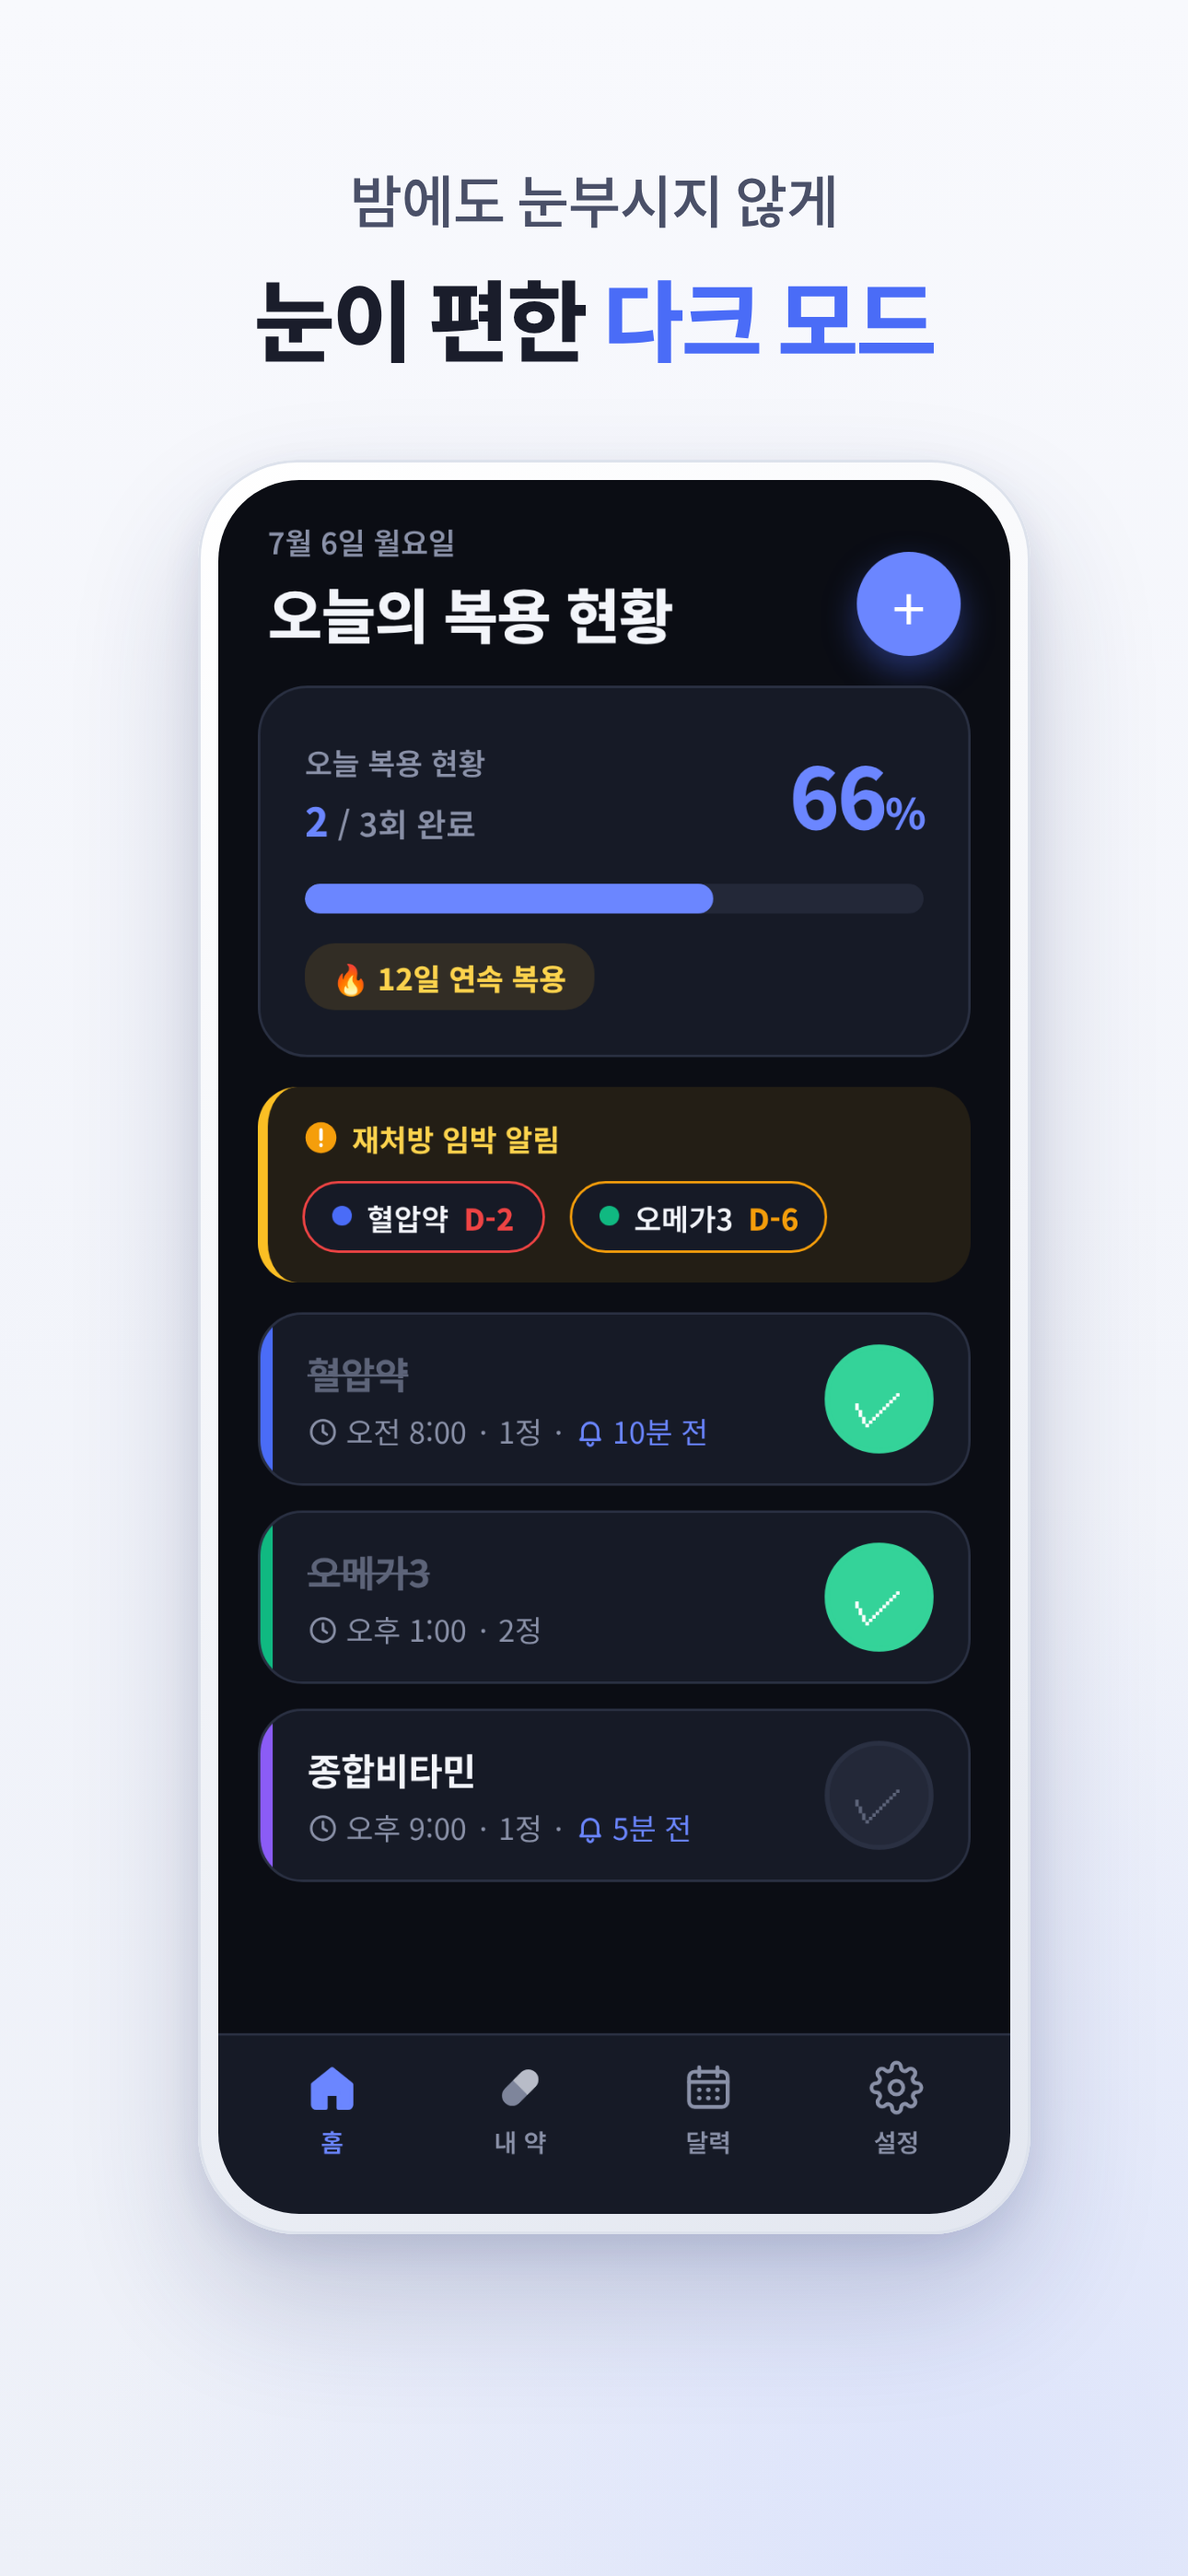
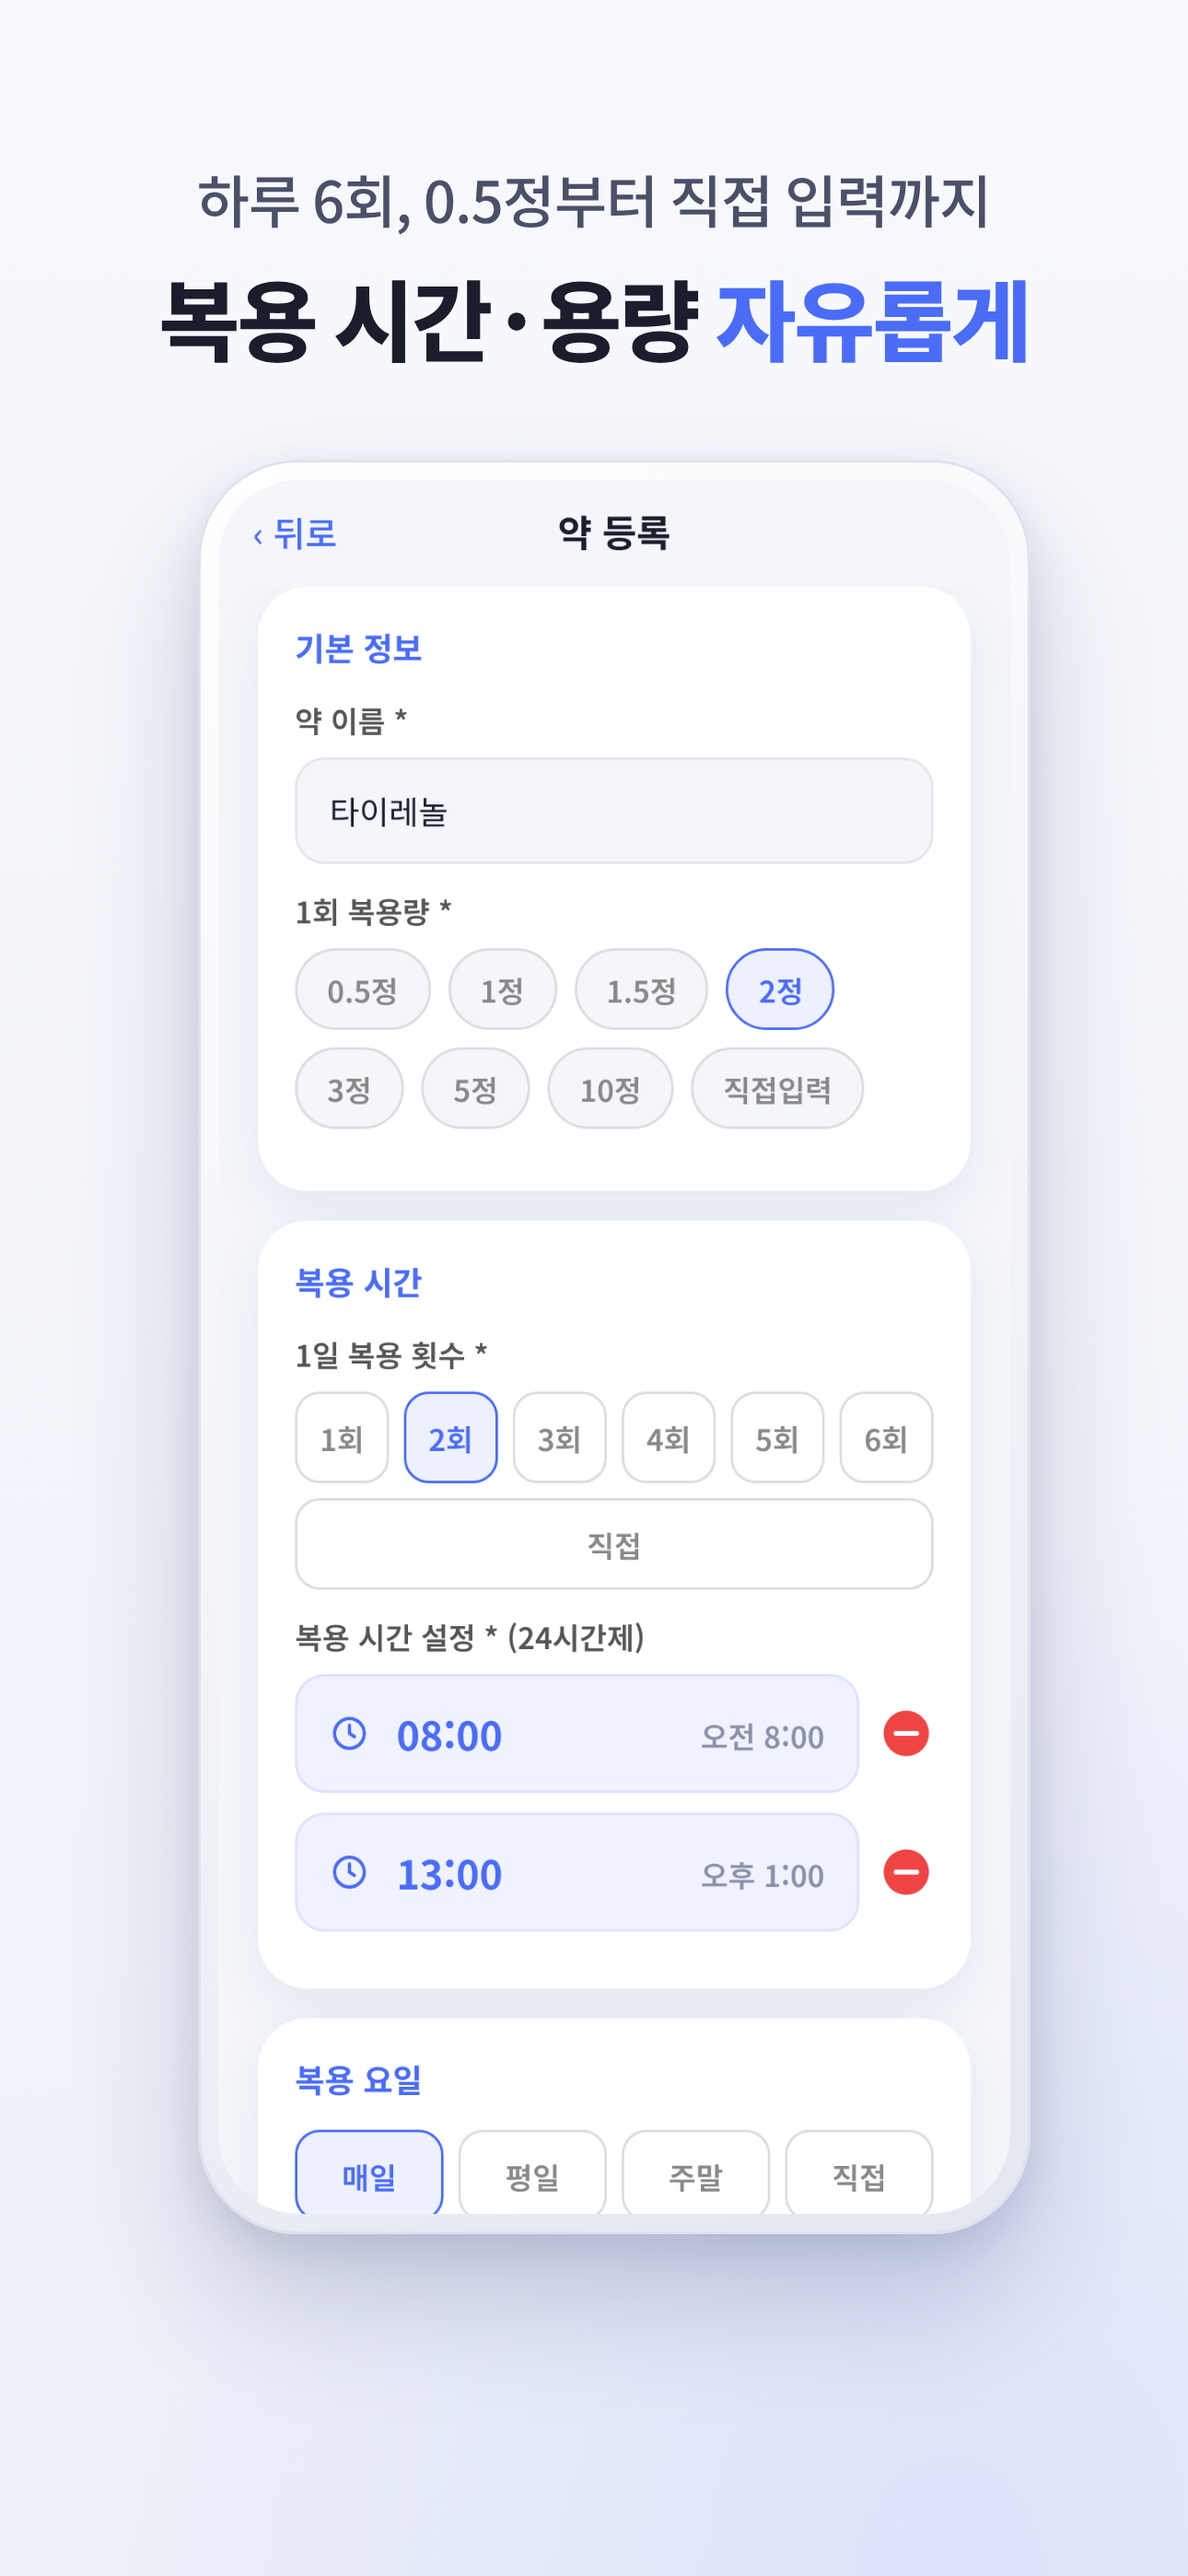
Korean store screenshots: add a large-text panel, refresh all eight
A new 'text size as large as you like' panel shows the home screen at a
bigger size with the slider on top, after the family alerts panel. All
panels reflect the current app: family card with menu and two-week chart,
medicine-colored calendar, app line icons, and the slider.

Claude-Session: https://claude.ai/code/session_01FsfgzBCkXCq3RhxTQFRGQP

diff --git a/MediRemind/mockup.html b/MediRemind/mockup.html
@@ -294,6 +294,14 @@
   .tsl .tr { position:relative; flex:1; height:24px; } .tsl .rl { position:absolute; left:9px; right:9px; top:10px; height:4px; border-radius:2px; background:#EBEEF6; }
   .tsl .fl { position:absolute; left:0; top:10px; height:4px; border-radius:2px; background:#4A6CF7; } .tsl .tr i { position:absolute; top:11px; width:3px; height:3px; border-radius:2px; }
   .tsl .th { position:absolute; top:3px; width:18px; height:18px; border-radius:9px; background:#fff; border:2px solid #4A6CF7; box-sizing:border-box; box-shadow:0 1px 4px rgba(0,0,0,.15); }
+  .screen.big .header .title { font-size:29px; } .screen.big .header .date { font-size:15px; }
+  .screen.big .body { zoom:1.22; }
+  .ts-card { background:#fff; border-radius:16px; margin:0 16px 10px; padding:10px 14px 6px; box-shadow:0 8px 20px rgba(63,74,126,.10); border:1.5px solid #DCE3FD; }
+  .ts-h { font-size:11px; font-weight:700; color:#4A6CF7; }
+  .ts-row { display:flex; align-items:center; gap:8px; } .ts-row .s { font-size:11px; color:#8A91A8; } .ts-row .l { font-size:22px; color:#1A1D2B; }
+  .ts-tr { position:relative; flex:1; height:30px; } .ts-rl { position:absolute; left:11%; right:11%; top:13px; height:5px; border-radius:3px; background:#EBEEF6; }
+  .ts-fl { position:absolute; left:0; top:13px; height:5px; border-radius:3px; background:#4A6CF7; } .ts-tr i { position:absolute; top:14px; width:3px; height:3px; border-radius:2px; margin-left:-1.5px; }
+  .ts-th { position:absolute; top:3px; width:24px; height:24px; border-radius:12px; background:#fff; border:2px solid #4A6CF7; box-sizing:border-box; box-shadow:0 2px 5px rgba(0,0,0,.15); }
 </style>
 </head>
 <body>
@@ -662,6 +670,71 @@
         <div class="hist"><div class="hist-h"><span class="gd-lbl">최근 2주</span><b>복용률 89%</b></div><div class="hbars"><div class="hb"><div class="ht"><i style="flex:0;background:#EBEEF6"></i><i style="flex:0;background:#EF4444"></i><i style="flex:3;background:#10B981"></i></div><span class="">23</span></div><div class="hb"><div class="ht"><i style="flex:0;background:#EBEEF6"></i><i style="flex:0;background:#EF4444"></i><i style="flex:3;background:#10B981"></i></div><span class="">24</span></div><div class="hb"><div class="ht"><i style="flex:0;background:#EBEEF6"></i><i style="flex:1;background:#EF4444"></i><i style="flex:2;background:#10B981"></i></div><span class="">25</span></div><div class="hb"><div class="ht"><i style="flex:0;background:#EBEEF6"></i><i style="flex:0;background:#EF4444"></i><i style="flex:3;background:#10B981"></i></div><span class="">26</span></div><div class="hb"><div class="ht"><i style="flex:0;background:#EBEEF6"></i><i style="flex:0;background:#EF4444"></i><i style="flex:3;background:#10B981"></i></div><span class="">27</span></div><div class="hb"><div class="ht"><i style="flex:0;background:#EBEEF6"></i><i style="flex:0;background:#EF4444"></i><i style="flex:3;background:#10B981"></i></div><span class="">28</span></div><div class="hb"><div class="ht"><i style="flex:0;background:#EBEEF6"></i><i style="flex:2;background:#EF4444"></i><i style="flex:1;background:#10B981"></i></div><span class="">29</span></div><div class="hb"><div class="ht"><i style="flex:0;background:#EBEEF6"></i><i style="flex:0;background:#EF4444"></i><i style="flex:3;background:#10B981"></i></div><span class="">30</span></div><div class="hb"><div class="ht"><i style="flex:0;background:#EBEEF6"></i><i style="flex:0;background:#EF4444"></i><i style="flex:3;background:#10B981"></i></div><span class="">1</span></div><div class="hb"><div class="ht"><i style="flex:0;background:#EBEEF6"></i><i style="flex:0;background:#EF4444"></i><i style="flex:3;background:#10B981"></i></div><span class="">2</span></div><div class="hb"><div class="ht"><i style="flex:0;background:#EBEEF6"></i><i style="flex:1;background:#EF4444"></i><i style="flex:2;background:#10B981"></i></div><span class="">3</span></div><div class="hb"><div class="ht"><i style="flex:0;background:#EBEEF6"></i><i style="flex:0;background:#EF4444"></i><i style="flex:3;background:#10B981"></i></div><span class="">4</span></div><div class="hb"><div class="ht"><i style="flex:0;background:#EBEEF6"></i><i style="flex:0;background:#EF4444"></i><i style="flex:3;background:#10B981"></i></div><span class="">5</span></div><div class="hb"><div class="ht"><i style="flex:1;background:#EBEEF6"></i><i style="flex:1;background:#EF4444"></i><i style="flex:1;background:#10B981"></i></div><span class="td">6</span></div></div><div class="hleg"><i style="background:#10B981"></i>복용<i style="background:#EF4444"></i>안 먹음</div></div>
         <div class="gd-input"><span class="gd-field">6자리 코드</span><span class="gd-btn">연결</span></div>
       </div>
+    </div>
+  </div></div>
+
+  <!-- ═══ 9. LARGE TEXT ═══ -->
+  <div class="phone"><div class="screen big">
+    <div class="notch"></div>
+    <div class="status"><span>9:41</span><span>📶 🔋</span></div>
+    <div class="screen-label">큰 글씨</div>
+    <div class="header">
+      <div>
+        <div class="date">7월 6일 월요일</div>
+        <div class="title">오늘의 복용 현황</div>
+      </div>
+      <div class="fab">+</div>
+    </div>
+    <div class="ts-card"><div class="ts-h">글자 크기</div><div class="ts-row"><b class="s">가</b><div class="ts-tr"><div class="ts-rl"></div><div class="ts-fl" style="width:calc(55.7% + 11%)"></div><i style="left:11.0%;background:#fff"></i><i style="left:22.1%;background:#fff"></i><i style="left:33.3%;background:#fff"></i><i style="left:44.4%;background:#fff"></i><i style="left:55.6%;background:#fff"></i><i style="left:66.7%;background:#fff"></i><i style="left:77.9%;background:#A9B0C5"></i><i style="left:89.0%;background:#A9B0C5"></i><div class="ts-th" style="left:calc(55.7% + 11% - 13px)"></div></div><b class="l">가</b></div></div>
+    <div class="body">
+      <div class="card">
+        <div class="prog-head">
+          <div>
+            <div class="prog-label">오늘 복용 현황</div>
+            <div class="prog-count"><b>2</b> / 3회 완료</div>
+          </div>
+          <div class="prog-pct">66<span>%</span></div>
+        </div>
+        <div class="track"><div class="fill"></div></div>
+        <div class="streak">🔥 12일 연속 복용</div>
+      </div>
+
+      <div class="banner">
+        <div class="banner-title"><svg class="al" viewBox="0 0 24 24"><circle cx="12" cy="12" r="10"/><path d="M12 7v6M12 16.5v.5" stroke="#fff" stroke-width="2.2" stroke-linecap="round"/></svg>재처방 임박 알림</div>
+        <span class="pill urgent"><span class="dot" style="background:#4A6CF7"></span>혈압약 <span class="dday">D-2</span></span>
+        <span class="pill"><span class="dot" style="background:#10B981"></span>오메가3 <span class="dday">D-6</span></span>
+      </div>
+
+      <div class="dose">
+        <div class="bar" style="background:#4A6CF7"></div>
+        <div class="info">
+          <div class="name done">혈압약</div>
+          <div class="meta"><svg class="mi" viewBox="0 0 24 24"><circle cx="12" cy="12" r="9"/><path d="M12 7v5l3 2"/></svg>오전 8:00 · 1정 · <span class="accent"><svg class="mi" viewBox="0 0 24 24"><path d="M6 16V11a6 6 0 0 1 12 0v5l1.5 2h-15z"/><path d="M10 20.5a2 2 0 0 0 4 0"/></svg>10분 전</span></div>
+        </div>
+        <div class="check done">✓</div>
+      </div>
+      <div class="dose">
+        <div class="bar" style="background:#10B981"></div>
+        <div class="info">
+          <div class="name done">오메가3</div>
+          <div class="meta"><svg class="mi" viewBox="0 0 24 24"><circle cx="12" cy="12" r="9"/><path d="M12 7v5l3 2"/></svg>오후 1:00 · 2정</div>
+        </div>
+        <div class="check done">✓</div>
+      </div>
+      <div class="dose">
+        <div class="bar" style="background:#8B5CF6"></div>
+        <div class="info">
+          <div class="name">종합비타민</div>
+          <div class="meta"><svg class="mi" viewBox="0 0 24 24"><circle cx="12" cy="12" r="9"/><path d="M12 7v5l3 2"/></svg>오후 9:00 · 1정 · <span class="accent"><svg class="mi" viewBox="0 0 24 24"><path d="M6 16V11a6 6 0 0 1 12 0v5l1.5 2h-15z"/><path d="M10 20.5a2 2 0 0 0 4 0"/></svg>5분 전</span></div>
+        </div>
+        <div class="check">✓</div>
+      </div>
+    </div>
+    <div class="tabbar">
+      <div class="tab on"><svg class="ic" viewBox="0 0 24 24"><path class="f" d="M3.5 10.6 12 3.8l8.5 6.8V19.5a1.5 1.5 0 0 1-1.5 1.5h-4.2v-6.2H9.2V21H5a1.5 1.5 0 0 1-1.5-1.5z"/></svg>홈</div>
+      <div class="tab"><svg class="ic" viewBox="0 0 24 24"><g transform="rotate(-45 12 12)"><rect x="2.5" y="7.5" width="19" height="9" rx="4.5" fill="currentColor" opacity=".9"/><path d="M12 7.5h5a4.5 4.5 0 0 1 0 9h-5z" fill="#fff" opacity=".45"/></g></svg>내 약</div>
+      <div class="tab"><svg class="ic" viewBox="0 0 24 24"><rect class="f" x="3.5" y="5" width="17" height="15.5" rx="2.5"/><path d="M3.5 9.5h17M8 3v4M16 3v4"/><g class="dots"><circle cx="8" cy="13" r="1"/><circle cx="12" cy="13" r="1"/><circle cx="16" cy="13" r="1"/><circle cx="8" cy="16.6" r="1"/><circle cx="12" cy="16.6" r="1"/><circle cx="16" cy="16.6" r="1"/></g></svg>달력</div>
+      <div class="tab"><svg class="ic" viewBox="0 0 24 24"><path class="f" d="M19.4 15a1.65 1.65 0 0 0 .33 1.82l.06.06a2 2 0 1 1-2.83 2.83l-.06-.06a1.65 1.65 0 0 0-1.82-.33 1.65 1.65 0 0 0-1 1.51V21a2 2 0 1 1-4 0v-.09A1.65 1.65 0 0 0 9 19.4a1.65 1.65 0 0 0-1.82.33l-.06.06a2 2 0 1 1-2.83-2.83l.06-.06a1.65 1.65 0 0 0 .33-1.82 1.65 1.65 0 0 0-1.51-1H3a2 2 0 1 1 0-4h.09A1.65 1.65 0 0 0 4.6 9a1.65 1.65 0 0 0-.33-1.82l-.06-.06a2 2 0 1 1 2.83-2.83l.06.06a1.65 1.65 0 0 0 1.82.33H9a1.65 1.65 0 0 0 1-1.51V3a2 2 0 1 1 4 0v.09a1.65 1.65 0 0 0 1 1.51 1.65 1.65 0 0 0 1.82-.33l.06-.06a2 2 0 1 1 2.83 2.83l-.06.06a1.65 1.65 0 0 0-.33 1.82V9a1.65 1.65 0 0 0 1.51 1H21a2 2 0 1 1 0 4h-.09a1.65 1.65 0 0 0-1.51 1z"/><circle class="hole" cx="12" cy="12" r="3"/></svg>설정</div>
     </div>
   </div></div>
 

diff --git a/MediRemind/scripts/store-screenshots.js b/MediRemind/scripts/store-screenshots.js
@@ -110,6 +110,7 @@ const STORY = {
     hero: [0, 3, ['복용 알림과 복약 기록,', '나와 내 가족,', '그리고 부모님을 위한', '약 복용 알리미'], 1],
     singles: [
       [7, '정해진 시간이 지나도 체크가 없으면', '가족에게 ', '바로 알림'],
+      [8, '작은 글씨가 불편하다면', '글씨 크기를 ', '원하는 만큼'],
       [1, '재처방 D-Day와 복용 일정까지', '내 약을 한눈에 ', '관리'],
       [2, '하루 6회, 0.5정부터 직접 입력까지', '복용 시간·용량 ', '자유롭게'],
       [6, '밤에도 눈부시지 않게', '눈이 편한 ', '다크 모드'],
